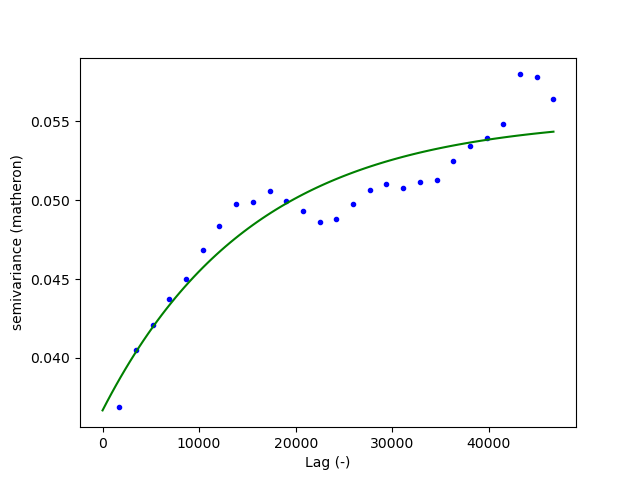
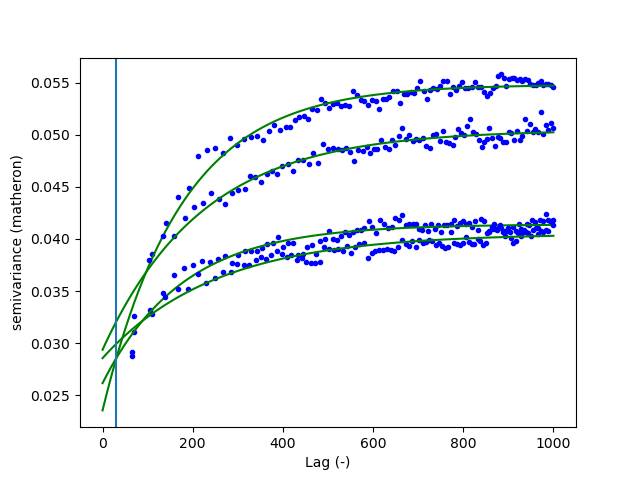
generating variogram and coarsening resolution figures

diff --git a/src/compare/scaling/variograms.py b/src/compare/scaling/variograms.py
@@ -23,7 +23,9 @@ fig_dir = home_dir.joinpath('figures', 'variograms')
 uavsar_dir = Path('/bsuhome/zacharykeskinen/scratch/coherence/uavsar/tiffs/')
 
 # get list of uavsars directories
-uavsars = sorted(list(uavsar_dir.glob('*')))
+uavsars = list(uavsar_dir.glob('*')) # sorted
+import random
+random.shuffle(uavsars)
 # remove tmp dir
 uavsars = [u for u in uavsars if u != 'tmp']
 # get location and flight direction for key and first coherence tiff as value of dictionary
@@ -32,11 +34,11 @@ uavsars = {u.stem: list(u.glob('*.cor.grd.tiff'))[0] for u in uavsars if len(lis
 n = 1000
 fig, ax = plt.subplots()
 for i, (uavsar, fp) in tqdm(enumerate(uavsars.items()), total = len(uavsars)):
-    if i == 1: break
+    if i == 4: break
     img = rxa.open_rasterio(fp).squeeze('band', drop = True)
     img = img.rio.write_crs('EPSG:4326').rio.reproject(dst_crs = img.rio.estimate_utm_crs())
     img = img.where((img > 0) & (img < 1))
-    img = img.sel(x = slice(img.x.mean() - 1000, img.x.mean() + 1000), y = slice(img.y.mean() +1000, img.y.mean() - 1000))
+    img = img.sel(x = slice(img.x.mean() - 2500, img.x.mean() + 2500), y = slice(img.y.mean() +2500, img.y.mean() - 2500))
     img = img.dropna('x', how = 'all').dropna('y', how = 'all')
     coords = list(product(np.random.choice(img.x, 100), np.random.choice(img.y, 100)))
     values = np.array([img.sel(x = x, y = y).values for x, y in coords]).ravel()
@@ -45,15 +47,25 @@ for i, (uavsar, fp) in tqdm(enumerate(uavsars.items()), total = len(uavsars)):
     
     print(len(values))
     print(img.std().values)
+
     fig_sub, ax_sub = plt.subplots()
     img.plot(ax = ax_sub)
     ax_sub.scatter(coords[:, 0], coords[:, 1], marker = 'x', s = 1, color = 'black')
-    fig_sub.savefig(fig_dir.joinpath(f'test_img_{uavsar}.png'))
+    fig_sub.savefig(fig_dir.joinpath('sampling', f'sampling_{uavsar}.png'))
+    plt.close(fig_sub)
+    for (coarsen_x, coarsen_y), res in zip([(1,1), (2,2),(4,4),(6,6), (10,10), (20,20)], ['5m', '10m', '20m', '30m', '50m', '100m']):
+        fig_sub, ax_sub = plt.subplots()
+        img.coarsen(x = coarsen_x, y= coarsen_y, boundary = 'trim').mean().plot(ax = ax_sub)
+        ax_sub.set_title(f'Resolution = {res}')
+        fig_sub.savefig(fig_dir.joinpath('coarsen', f'{uavsar}_coarsen_{res}.png'))
+        plt.close(fig_sub)
 
-    V = skg.Variogram(coords, values, bin_func = 'scott', use_nugget = True, model = 'exponential', ) # maxlag = 20000, n_lags = 100,
+
+    V = skg.Variogram(coords, values, n_lags = 300, bin_func = 'uniform', use_nugget = True, model = 'exponential', maxlag = 1000) # maxlag = 20000, n_lags = 100,
     V.plot(axes = ax, grid = False, show = False, hist = False)
     # V.distance_difference_plot()
 
+ax.axvline(30)
 # [l.set_color("black") for l in ax.get_lines()]
 # [l.set_linestyle('--') for l in ax.get_lines()[1::2]]
 # [l.set_visible(False) for l in ax.get_lines()[::2]]
